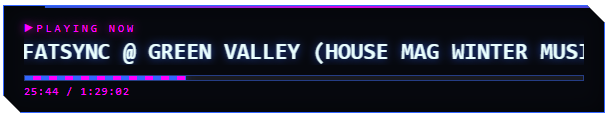
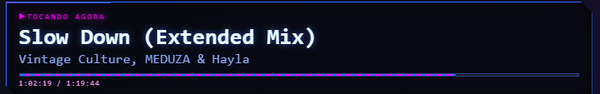
site: 7 temas na vitrine, com imagens novas
- 4 cartoes novos (Frost, Galaxy, Golden Hour, Broadcast) nos 7 idiomas
- Card e Cyberpunk refotografados no mesmo fundo dos demais
- Frost sai da cena clara de proposito: e onde ele justifica existir

diff --git a/ru/index.html b/ru/index.html
@@ -611,6 +611,30 @@ footer small{color:var(--mist-dim); font-size:12.5px;}
           </div>
           <div class="theme-name"><b>Cyberpunk</b> — неон и моноширинный шрифт</div>
         </div>
+        <div class="theme-card reveal">
+          <div class="theme-preview theme-preview-img">
+            <img src="assets/theme-frost.png" alt="Тема оверлея Frost в TrackLay">
+          </div>
+          <div class="theme-name"><b>Frost</b> — светлая панель для светлых сцен</div>
+        </div>
+        <div class="theme-card reveal">
+          <div class="theme-preview theme-preview-img">
+            <img src="assets/theme-galaxy.png" alt="Тема оверлея Галактика в TrackLay">
+          </div>
+          <div class="theme-name"><b>Галактика</b> — глубокий фиолетовый и лаванда</div>
+        </div>
+        <div class="theme-card reveal">
+          <div class="theme-preview theme-preview-img">
+            <img src="assets/theme-golden.png" alt="Тема оверлея Золотой час в TrackLay">
+          </div>
+          <div class="theme-name"><b>Золотой час</b> — тёплый янтарь и терракота</div>
+        </div>
+        <div class="theme-card reveal">
+          <div class="theme-preview theme-preview-img">
+            <img src="assets/theme-broadcast.png" alt="Тема оверлея Эфир в TrackLay">
+          </div>
+          <div class="theme-name"><b>Эфир</b> — плоская ТВ-полоса, без размытия</div>
+        </div>
       </div>
     </div>
   </section>

diff --git a/fr/index.html b/fr/index.html
@@ -611,6 +611,30 @@ footer small{color:var(--mist-dim); font-size:12.5px;}
           </div>
           <div class="theme-name"><b>Cyberpunk</b> — néon et police monospace</div>
         </div>
+        <div class="theme-card reveal">
+          <div class="theme-preview theme-preview-img">
+            <img src="assets/theme-frost.png" alt="Thème d'overlay Frost dans TrackLay">
+          </div>
+          <div class="theme-name"><b>Frost</b> — panneau clair pour scènes claires</div>
+        </div>
+        <div class="theme-card reveal">
+          <div class="theme-preview theme-preview-img">
+            <img src="assets/theme-galaxy.png" alt="Thème d'overlay Galaxie dans TrackLay">
+          </div>
+          <div class="theme-name"><b>Galaxie</b> — violet profond et lavande</div>
+        </div>
+        <div class="theme-card reveal">
+          <div class="theme-preview theme-preview-img">
+            <img src="assets/theme-golden.png" alt="Thème d'overlay Heure dorée dans TrackLay">
+          </div>
+          <div class="theme-name"><b>Heure dorée</b> — ambre chaud et terre cuite</div>
+        </div>
+        <div class="theme-card reveal">
+          <div class="theme-preview theme-preview-img">
+            <img src="assets/theme-broadcast.png" alt="Thème d'overlay Broadcast dans TrackLay">
+          </div>
+          <div class="theme-name"><b>Broadcast</b> — barre TV plate, sans flou</div>
+        </div>
       </div>
     </div>
   </section>

diff --git a/es/index.html b/es/index.html
@@ -611,6 +611,30 @@ footer small{color:var(--mist-dim); font-size:12.5px;}
           </div>
           <div class="theme-name"><b>Cyberpunk</b> — neón y monoespaciada</div>
         </div>
+        <div class="theme-card reveal">
+          <div class="theme-preview theme-preview-img">
+            <img src="assets/theme-frost.png" alt="Tema de overlay Frost en TrackLay">
+          </div>
+          <div class="theme-name"><b>Frost</b> — panel claro para escenas claras</div>
+        </div>
+        <div class="theme-card reveal">
+          <div class="theme-preview theme-preview-img">
+            <img src="assets/theme-galaxy.png" alt="Tema de overlay Galaxia en TrackLay">
+          </div>
+          <div class="theme-name"><b>Galaxia</b> — púrpura profundo y lavanda</div>
+        </div>
+        <div class="theme-card reveal">
+          <div class="theme-preview theme-preview-img">
+            <img src="assets/theme-golden.png" alt="Tema de overlay Hora dorada en TrackLay">
+          </div>
+          <div class="theme-name"><b>Hora dorada</b> — ámbar cálido y terracota</div>
+        </div>
+        <div class="theme-card reveal">
+          <div class="theme-preview theme-preview-img">
+            <img src="assets/theme-broadcast.png" alt="Tema de overlay Broadcast en TrackLay">
+          </div>
+          <div class="theme-name"><b>Broadcast</b> — barra plana de TV, sin desenfoque</div>
+        </div>
       </div>
     </div>
   </section>

diff --git a/de/index.html b/de/index.html
@@ -611,6 +611,30 @@ footer small{color:var(--mist-dim); font-size:12.5px;}
           </div>
           <div class="theme-name"><b>Cyberpunk</b> — Neon und Monospace</div>
         </div>
+        <div class="theme-card reveal">
+          <div class="theme-preview theme-preview-img">
+            <img src="assets/theme-frost.png" alt="Frost Overlay-Design in TrackLay">
+          </div>
+          <div class="theme-name"><b>Frost</b> — helles Panel für helle Szenen</div>
+        </div>
+        <div class="theme-card reveal">
+          <div class="theme-preview theme-preview-img">
+            <img src="assets/theme-galaxy.png" alt="Galaxie Overlay-Design in TrackLay">
+          </div>
+          <div class="theme-name"><b>Galaxie</b> — tiefes Lila und Lavendel</div>
+        </div>
+        <div class="theme-card reveal">
+          <div class="theme-preview theme-preview-img">
+            <img src="assets/theme-golden.png" alt="Goldene Stunde Overlay-Design in TrackLay">
+          </div>
+          <div class="theme-name"><b>Goldene Stunde</b> — warmer Bernstein und Terrakotta</div>
+        </div>
+        <div class="theme-card reveal">
+          <div class="theme-preview theme-preview-img">
+            <img src="assets/theme-broadcast.png" alt="Broadcast Overlay-Design in TrackLay">
+          </div>
+          <div class="theme-name"><b>Broadcast</b> — flache TV-Leiste, ohne Blur</div>
+        </div>
       </div>
     </div>
   </section>

diff --git a/pt/index.html b/pt/index.html
@@ -611,6 +611,30 @@ footer small{color:var(--mist-dim); font-size:12.5px;}
           </div>
           <div class="theme-name"><b>Cyberpunk</b> — neon e monoespaçado</div>
         </div>
+        <div class="theme-card reveal">
+          <div class="theme-preview theme-preview-img">
+            <img src="assets/theme-frost.png" alt="Tema de overlay Frost no TrackLay">
+          </div>
+          <div class="theme-name"><b>Frost</b> — painel claro para cenas claras</div>
+        </div>
+        <div class="theme-card reveal">
+          <div class="theme-preview theme-preview-img">
+            <img src="assets/theme-galaxy.png" alt="Tema de overlay Galáxia no TrackLay">
+          </div>
+          <div class="theme-name"><b>Galáxia</b> — roxo profundo e lavanda</div>
+        </div>
+        <div class="theme-card reveal">
+          <div class="theme-preview theme-preview-img">
+            <img src="assets/theme-golden.png" alt="Tema de overlay Hora dourada no TrackLay">
+          </div>
+          <div class="theme-name"><b>Hora dourada</b> — âmbar quente e terracota</div>
+        </div>
+        <div class="theme-card reveal">
+          <div class="theme-preview theme-preview-img">
+            <img src="assets/theme-broadcast.png" alt="Tema de overlay Broadcast no TrackLay">
+          </div>
+          <div class="theme-name"><b>Broadcast</b> — barra reta de TV, sem blur</div>
+        </div>
       </div>
     </div>
   </section>

diff --git a/index.html b/index.html
@@ -611,6 +611,30 @@ footer small{color:var(--mist-dim); font-size:12.5px;}
           </div>
           <div class="theme-name"><b>Cyberpunk</b> — neon and monospace</div>
         </div>
+        <div class="theme-card reveal">
+          <div class="theme-preview theme-preview-img">
+            <img src="assets/theme-frost.png" alt="Frost light overlay theme in TrackLay">
+          </div>
+          <div class="theme-name"><b>Frost</b> — light panel for bright scenes</div>
+        </div>
+        <div class="theme-card reveal">
+          <div class="theme-preview theme-preview-img">
+            <img src="assets/theme-galaxy.png" alt="Galaxy overlay theme in TrackLay">
+          </div>
+          <div class="theme-name"><b>Galaxy</b> — deep purple and lavender</div>
+        </div>
+        <div class="theme-card reveal">
+          <div class="theme-preview theme-preview-img">
+            <img src="assets/theme-golden.png" alt="Golden Hour overlay theme in TrackLay">
+          </div>
+          <div class="theme-name"><b>Golden Hour</b> — warm amber and terracotta</div>
+        </div>
+        <div class="theme-card reveal">
+          <div class="theme-preview theme-preview-img">
+            <img src="assets/theme-broadcast.png" alt="Broadcast overlay theme in TrackLay">
+          </div>
+          <div class="theme-name"><b>Broadcast</b> — flat TV bar, no blur</div>
+        </div>
       </div>
     </div>
   </section>

diff --git a/zh/index.html b/zh/index.html
@@ -611,6 +611,30 @@ footer small{color:var(--mist-dim); font-size:12.5px;}
           </div>
           <div class="theme-name"><b>赛博朋克</b> — 霓虹与等宽字体</div>
         </div>
+        <div class="theme-card reveal">
+          <div class="theme-preview theme-preview-img">
+            <img src="assets/theme-frost.png" alt="TrackLay 冰霜叠加主题">
+          </div>
+          <div class="theme-name"><b>冰霜</b> — 浅色面板，适合明亮画面</div>
+        </div>
+        <div class="theme-card reveal">
+          <div class="theme-preview theme-preview-img">
+            <img src="assets/theme-galaxy.png" alt="TrackLay 星系叠加主题">
+          </div>
+          <div class="theme-name"><b>星系</b> — 深紫与薰衣草</div>
+        </div>
+        <div class="theme-card reveal">
+          <div class="theme-preview theme-preview-img">
+            <img src="assets/theme-golden.png" alt="TrackLay 黄金时刻叠加主题">
+          </div>
+          <div class="theme-name"><b>黄金时刻</b> — 暖琥珀与陶土色</div>
+        </div>
+        <div class="theme-card reveal">
+          <div class="theme-preview theme-preview-img">
+            <img src="assets/theme-broadcast.png" alt="TrackLay 广播条叠加主题">
+          </div>
+          <div class="theme-name"><b>广播条</b> — 扁平电视条，无模糊</div>
+        </div>
       </div>
     </div>
   </section>
